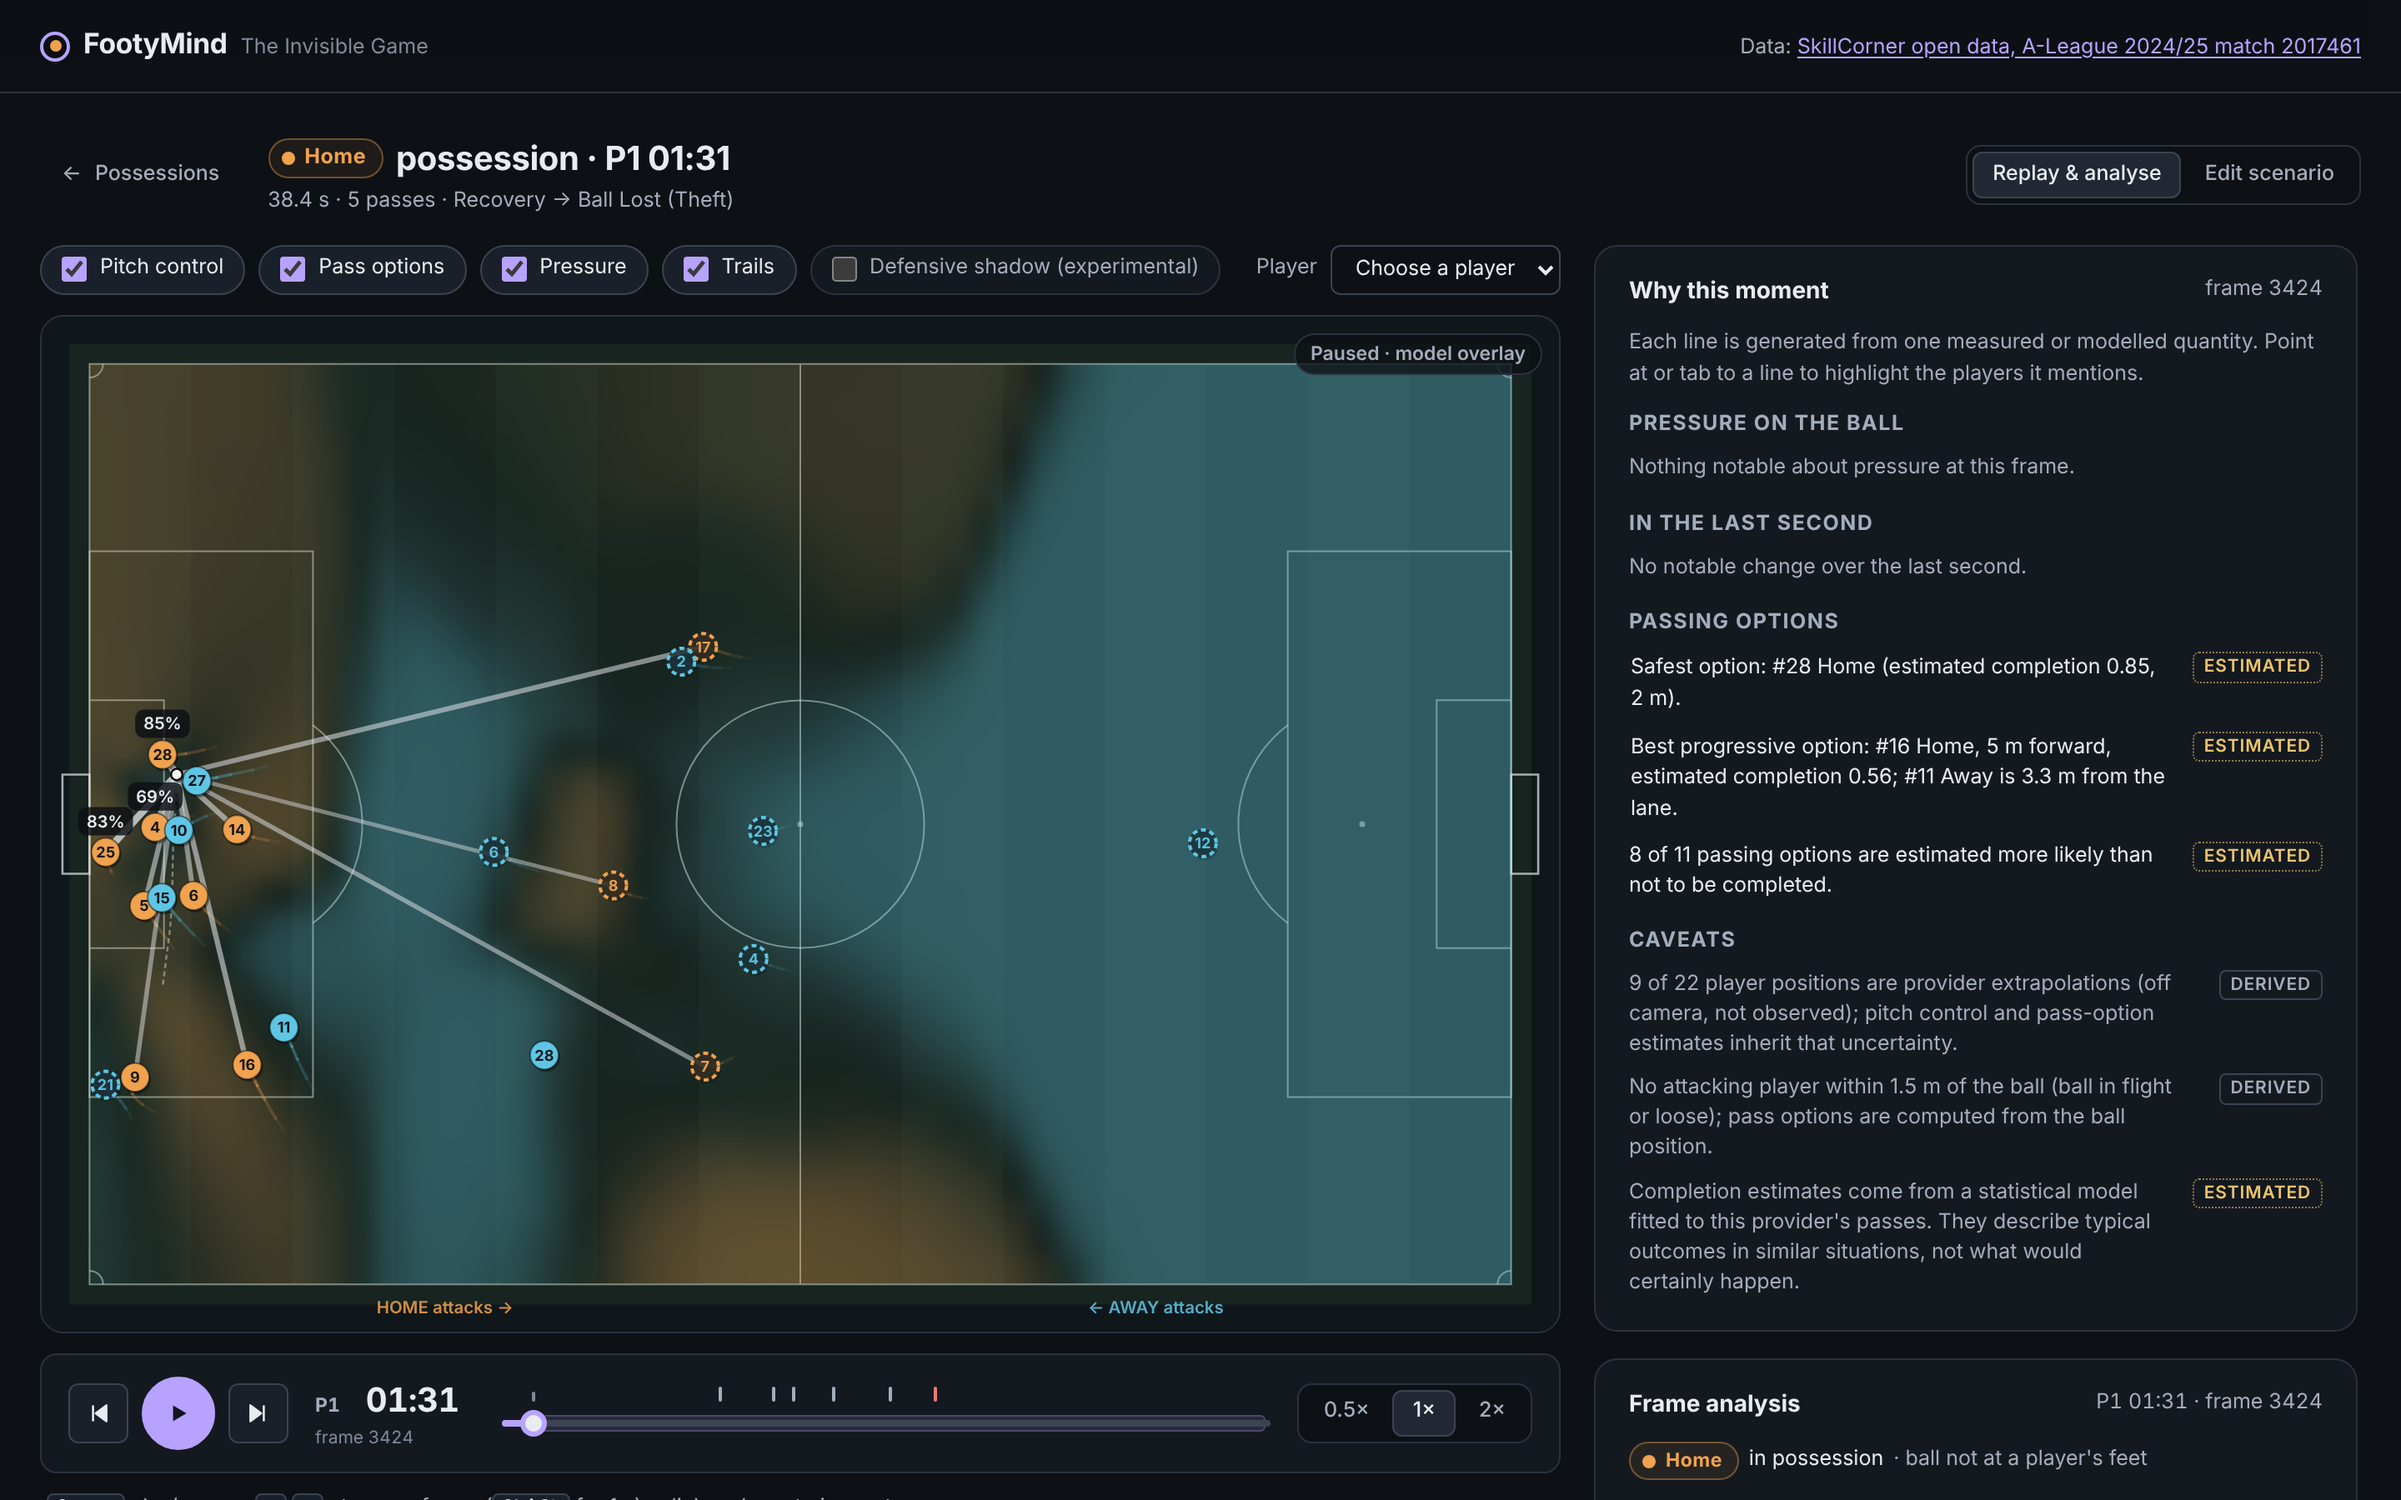
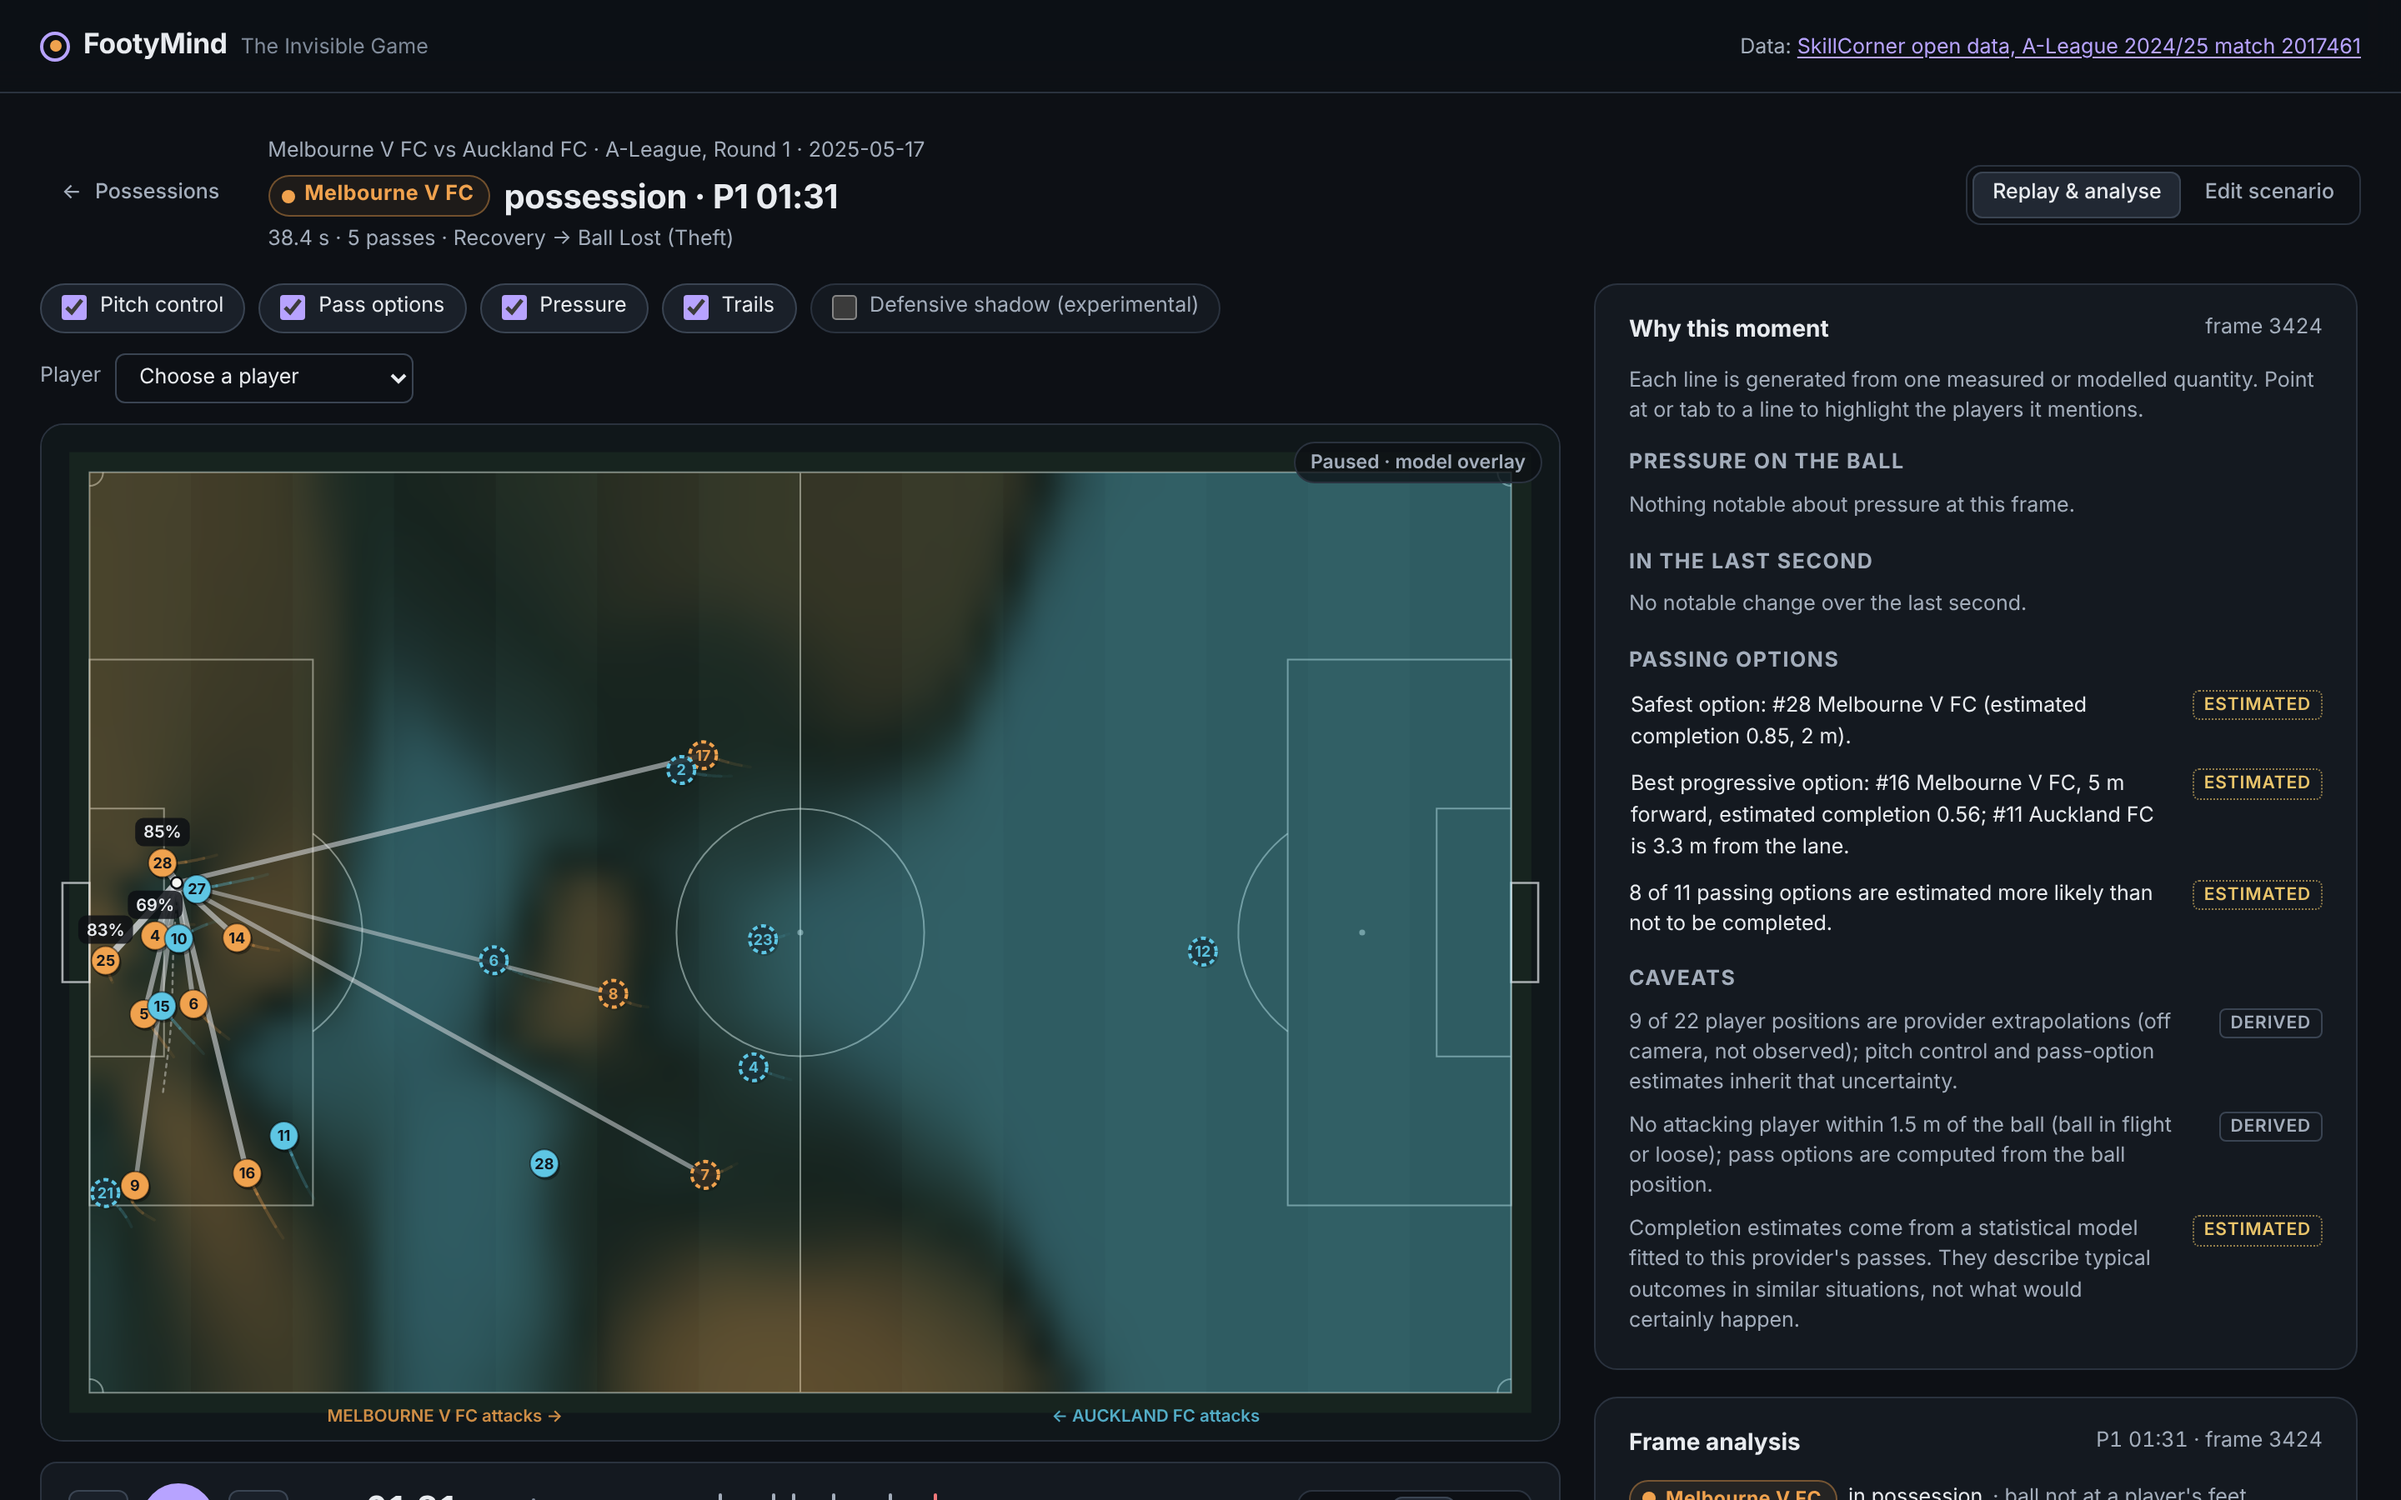
README screenshots with team names; audit doc follow-up for team names, clocks and validation

diff --git a/docs/product/AUDIT_SESSION3.md b/docs/product/AUDIT_SESSION3.md
@@ -37,7 +37,7 @@ polish.
 | F6 | **Error messages were technical or useless.** With the API stopped, the user saw "HTTP 500: Internal Server Error" (the dev proxy's empty 500). A bad or stale possession link showed "HTTP 404: unknown possession …" with a Retry button that cannot help. | medium | `before/desktop-14-api-down-landing.jpg`, `before/phone-14b-api-down-lab.jpg`, `before/desktop-13-bad-possession.jpg` | **Fixed.** Errors are written in plain language ("The FootyMind server is not responding…", "We could not find this possession. The link may be mistyped, or it may come from an older version of the processed data.") and keep the technical line in small monospace. Retry is shown only when retrying can help. Lab errors offer "Browse possessions". On a phone, the block wraps. See the matching `after/` images. |
 | F7 | **The phone delta table clipped the Agreement column** ("100% r…") with no sign that it scrolls. | medium | `before/phone-deltas-clipped.jpg` | **Fixed.** Below 480 px the interval-bar column is hidden; the observed and hypothetical values stay in their own columns. See `after/phone-deltas.jpg`. |
 | F8 | **On a phone, choosing a match changed nothing visible.** Twenty SkillCorner cards were stacked in one column (about 1,700 px) above the possession list. | medium | `before/phone-landing-matches.jpg` | **Fixed.** On phones, the broadcast matches use two compact columns, and choosing a match brings the possession list's heading into view (instantly, with no animation). The landing page is about 520 px shorter. See `after/phone-landing-matches.jpg`. |
-| F9 | **The match names mean nothing to a viewer** ("Match 1874553"). There are no team names or dates, and `home_label`/`away_label` are "Home"/"Away". | medium | `before/desktop-02-match-selected.jpg` | **Open: needs the backend** (see "Backend changes needed"). |
+| F9 | **The match names mean nothing to a viewer** ("Match 1874553"). There are no team names or dates, and `home_label`/`away_label` are "Home"/"Away". | medium | `before/desktop-02-match-selected.jpg` | **Fixed** (follow-up; the backend now serves the names). SkillCorner cards, chips, filters, legends, player labels ("#17 Adelaide United"), pitch attack labels and a lab match title ("Brisbane FC vs Adelaide United · A-League, Round 5 · 2024-11-23") use the team names. See `teams/desktop-31-match-cards.jpg` and `teams/desktop-33-lab-named.jpg`. Metrica stays "Home"/"Away". |
 | F10 | **At 1440×900, the legend is below the fold in the lab.** Without scrolling, the brown and teal pitch-control colours are unexplained. | medium | `before/desktop-03-lab-paused.jpg` | Open. The proposed fix is a compact colour key in the stage toolbar. It was deferred to avoid crowding the toolbar, which now holds the Player menu. |
 | F11 | **The player card shows the raw id (`away_17`) and centre-spot coordinates.** It gives no football description of where the player is. | low | `before/desktop-04-player-inspector.jpg` | Open. The proposal is a zone line ("in the opponent's box, left half-space"); this needs a product decision on the zone grid. |
 | F12 | **Pass-option headers (Phys., Lane, Ctrl, Fwd) are explained only by hover tooltips**, which touch screens never show. | low | `before/desktop-03-lab-paused.jpg` | Open. The caption carries the full text for screen readers. A visible "How to read this table" disclosure is proposed. |
@@ -162,19 +162,52 @@ Both panels sit in the lab's analysis column (Replay & analyse mode). Screenshot
   match, ball zone, nearest-defender distance, time on the ball, feature distance, and an
   "Open" link to `#/at/<match>?f=<frame>`.
 * An **unvalidated** badge appears unless `validation.knn_beats_base_rate` is exactly `true`.
-  Locally, `validation` is null because the validation results file is not present, so the
-  badge shows.
+  At the time of this follow-up, `validation` was null because the validation results file was not yet committed, so the
+  badge showed. It is now committed, and the validated state is described in the next section.
 * Empty states: 404 ("No pass starts within 2 seconds of this frame…") and 503 ("Similar
   moments are not available for SkillCorner data yet: the comparison index has not been built
   on this server.") appear as quiet `role="status"` notes, not alerts. Any other failure is a
   normal error with Retry.
 * axe reports no violations with both panels open.
 
+## Follow-up: team names, neighbour clocks, validated similarity
+
+Screenshots are in `docs/product/audit-session3/teams/` and were made with `tools/teams.cjs`.
+
+* **Team names.**
+  * SkillCorner summaries now carry `home_label`/`away_label`, `competition` and `date`.
+  * Where the UI used to say Home or Away for a team, it now uses the team name: match cards,
+    the possession-list title, team filter, chips and row labels, the lab's match title and
+    possession chip, the legend, the "#17 Adelaide United" player labels, the Player menu,
+    the player card, the analysis panel, the "Why this moment" text, timeline marker labels,
+    and the attack-direction labels on the pitch.
+  * The featured broadcast scenario on the landing page now names its teams.
+  * Team colours stay keyed to home and away (amber and sky).
+  * Missing parts are left out of the title. Metrica keeps "Home"/"Away" and is titled by its
+    source name ("Metrica Sports Sample Game 1"); nothing is invented for an anonymised match.
+    See `teams/desktop-35-lab-metrica-anon.jpg`.
+* **Neighbour clocks.**
+  * Each similar-moment row shows a clock such as "P2 72:36". It is computed from the
+    neighbour's frame and its match's period starts, exactly as the lab computes its own
+    clock. The e2e test opens a neighbour and checks that the lab clock matches the row.
+  * If the match summary is not available, the row falls back to the provider minute as a
+    whole minute ("P2 101'"). That field has 0.1-minute resolution, so seconds are not shown.
+  * Neighbour rows also name the passer's team and the match ("#15 Newcastle · Auckland FC vs
+    Newcastle").
+* **Validated similarity.** When `validation.knn_beats_base_rate` is `true`, the unvalidated
+  badge is replaced by a "validated held-out" pill, and a note reads: "Validated on held-out
+  matches: these neighbours' outcomes predicted pass completion better than the overall
+  completion rate. Results: `<ref>`."
+  * The ref is a repository path, so it is shown as code. It becomes a link only when it is an
+    absolute URL, or when the build sets `VITE_REPO_BLOB_URL` (for example a GitHub
+    `.../blob/<branch>` base). The app has no project-repository URL to link to.
+  * Long paths now wrap. Before this fix, one pushed the analysis column sideways (found on
+    SkillCorner).
+
 ## Backend changes needed (not made here; `src/` is owned by others)
 
-1. **Team names in `MatchSummary`** (F9). Populate `home_label` and `away_label` from the
-   SkillCorner match metadata, and add a date or round if one is available. Metrica is
-   anonymised, so "Home"/"Away" is correct there.
+1. **Done:** team names, competition and date in `MatchSummary` (F9). The backend now serves
+   them and the UI uses them (see the follow-up above). Metrica stays anonymised.
 2. **The response-policy contract** as agreed: `GET /api/response-policies?match_id=` and
    `ScenarioOut.policy`. The UI already handles both. Please keep `name` values stable,
    because they appear in deep-link state and tests.
